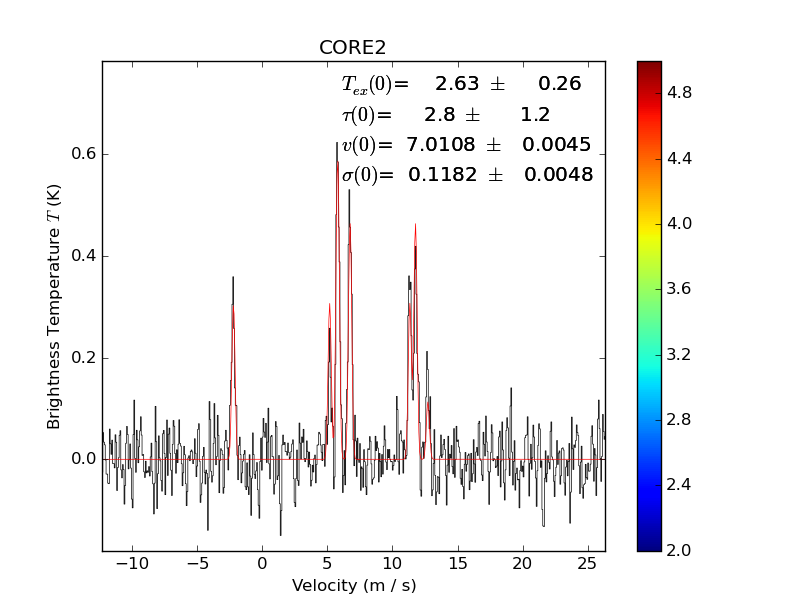
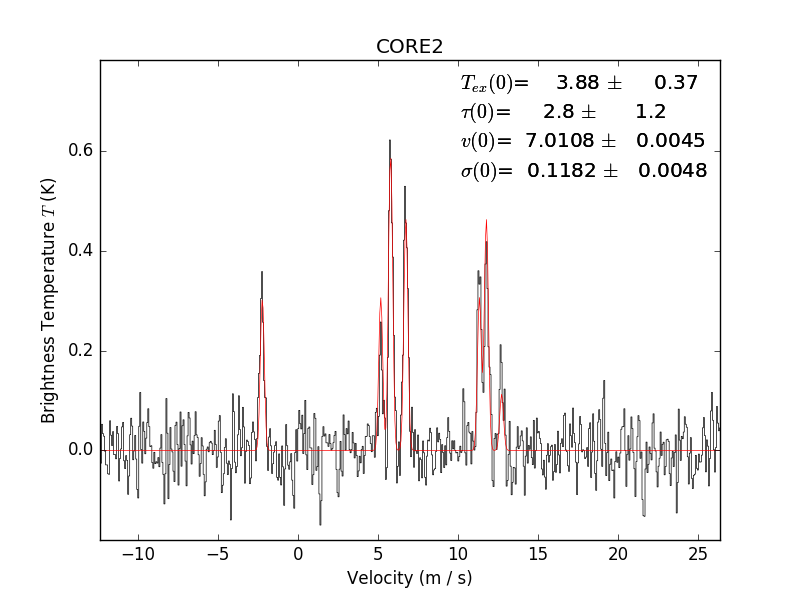
change initial condition

Changed region(s): [[0.0938, 0.06, 0.9062, 0.99], [0.0312, 0.3, 0.125, 0.72], [0.0625, 0.24, 0.125, 0.27]]

diff --git a/fit_lineprofilesH.py b/fit_lineprofilesH.py
@@ -12,7 +12,7 @@ from skimage.morphology import remove_small_objects,closing,disk,opening
 Optically_Thin      =False
 Show_Optically_Thin =False
 # Optically thick
-Optically_Thick     =False
+Optically_Thick     =True
 Show_Optically_Thick=True
 
 file_in='data/Core2_N2Hp_10.fits'
@@ -47,12 +47,12 @@ if Optically_Thin:
     cube.Registry.add_fitter('n2hp_vtau', pyspeckit.models.n2hp.n2hp_vtau_fitter, 4)
 
     print('start optically thin fit')
-    cube.fiteach(fittype='n2hp_vtau',  guesses=[3, 0.1, 6.7, 0.1], # Tex=5K, tau=0.1, v_center=7.1, \sigma_v=0.3 km/s
+    cube.fiteach(fittype='n2hp_vtau',  guesses=[80.0, 0.1, 6.7, 0.1], # Tex=5K, tau=0.1, v_center=7.1, \sigma_v=0.3 km/s
                  verbose_level=1, signal_cut=snr_min,
                  limitedmax=[F,F,T,T],
                  limitedmin=[T,T,T,T],
                  minpars=[ 0,  0,vmin,0.05],
-                 maxpars=[35.0,0,vmax,1.0],
+                 maxpars=[350.0,0,vmax,1.0],
                  fixed=[F,T,F,F], 
                  use_neighbor_as_guess=True, 
                  position_order = 1/peaksnr,
